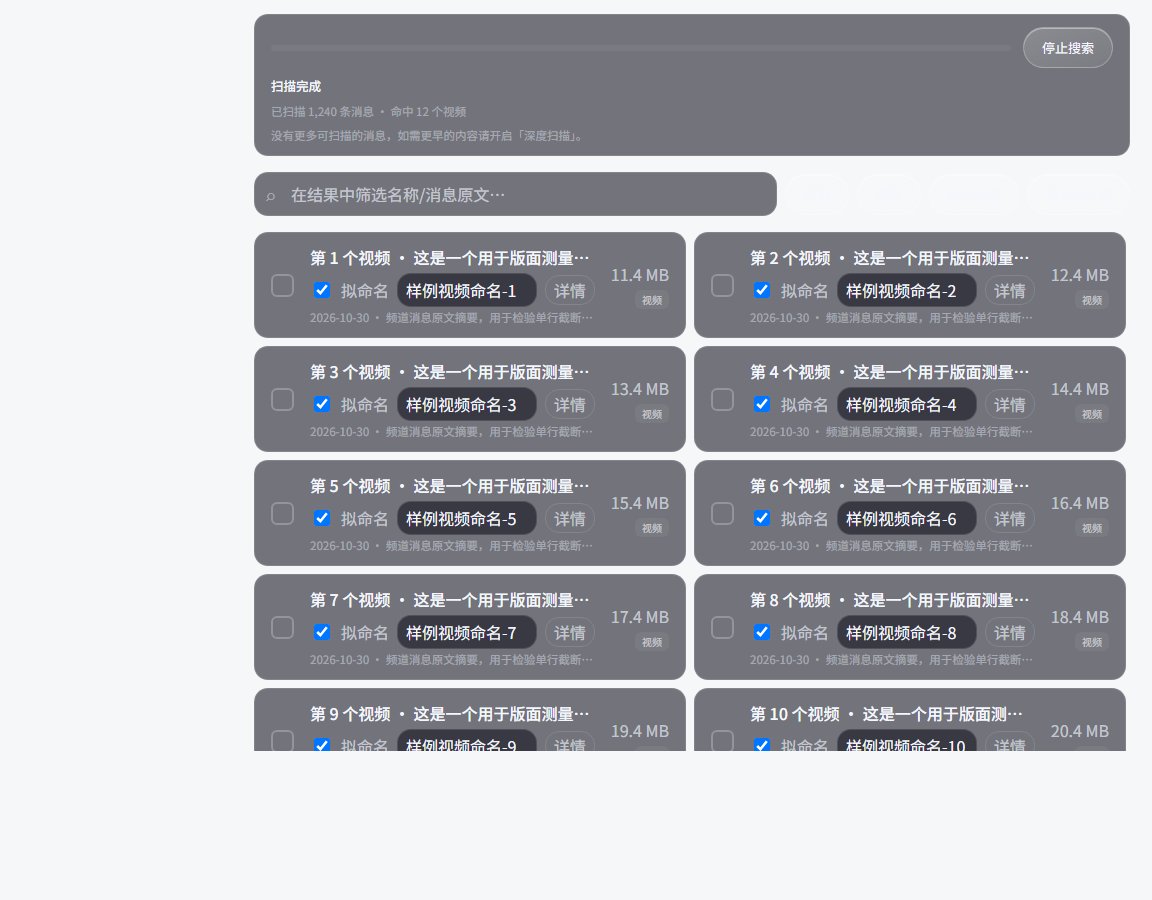
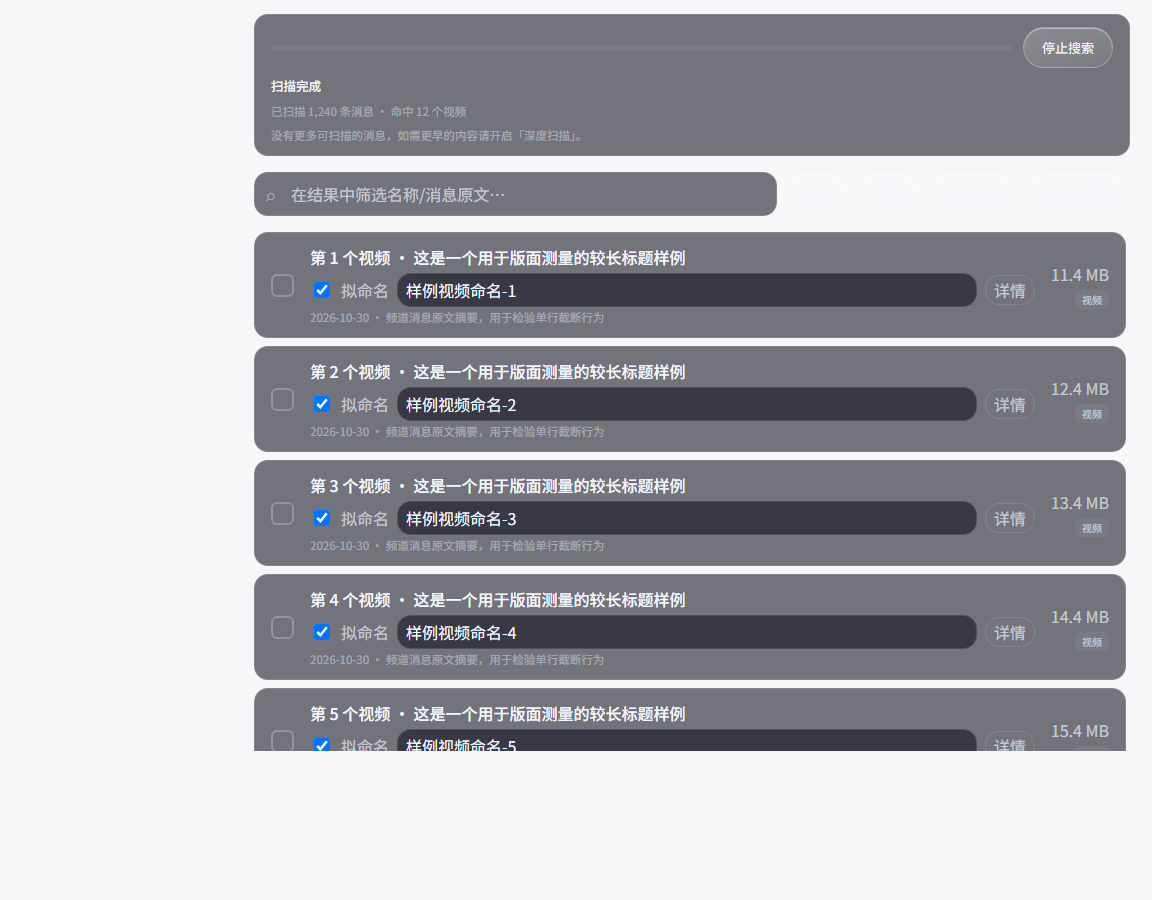
fix(web): keep results single-column full-width on wide viewports
取消 >=1024 的自适应多列网格：结果列表保持单列，行内信息列吃满可用宽度，名称/拟命名/摘要显示更多内容，右侧标签贴容器右缘，消除大屏右侧留白。同步更新 T61b 证据截图与说明。

Changed region(s): [[0.4375, 0.2489, 0.9062, 0.84]]

diff --git a/web/css/views/new.css b/web/css/views/new.css
@@ -452,22 +452,16 @@
   .nw-wiz { max-width: 760px; }  /* 旧壳 680px + 桌面舒展余量（任务书 §2.1 放宽为舒展布局授权） */
 }
 
-/* ≥1024（桌面/大屏）：结果页取消 760px 固定窄带，列数随可用宽度自动加密；
+/* ≥1024（桌面/大屏）：结果页取消 760px 固定窄带，保持单列、每行铺满可用宽度
+   （不切多列卡片），名称/拟命名/摘要随行宽显示更多内容，右侧标签贴容器右缘。
    用 :has 只放宽含结果列表的向导（步骤 1 条件卡保持 680—760 原宽）。
    <1024 全部断点与单列形态零改动；卡片内跑马/行距沿用 §7 原值。 */
 @media (min-width: 1024px) {
   .nw-wiz:has(.nw-list) { max-width: none; }
-  .nw-list {
-    display: grid;
-    /* 自适应列数：单卡下限 340px（保证标题与元信息不被截断），
-       1024 宽≈2 列、1450 宽≈3 列、1920 宽≈4 列，永不留下右侧空白 */
-    grid-template-columns: repeat(auto-fill, minmax(340px, 1fr));
-    align-content: start;        /* 行高按内容，不拉伸末尾空行 */
-    max-height: 52vh;            /* 44vh→52vh：900p 首屏坐满 4 行 */
-  }
+  .nw-list { max-height: 52vh; }   /* 单列内滚（44vh→52vh：900p 首屏多显示 1 行） */
   .nw-row {
     /* ≥768 的 4 列模板末列无对应子元素（现 DOM 为 勾选|信息|体积来源 三段），
-       多列卡片宽度收紧后改为 3 列，避免名称列被空列挤占 */
+       改 3 列让信息列吃满行宽 */
     grid-template-columns: auto minmax(0, 1fr) auto;
   }
   .nw-toolbar { flex-wrap: nowrap; }        /* 工具条随容器一行铺开 */

diff --git a/evidence/v2.4.1/T61b/density/layout-density.md b/evidence/v2.4.1/T61b/density/layout-density.md
@@ -1,22 +1,24 @@
-# 大屏结果区密度收紧（T61b 二次修复）
+# 大屏结果区铺满宽度（T61b 三次修复）
 
 ## 起因
 
-上一版只在 `≥1280px` 放开 760px 窄带。实际终端窗口的 CSS 宽度经常落在
-**1024–1279**（例如 1920 物理屏 125%–150% 缩放、或窗口非最大化），此时仍按
-单列 760px 渲染，右侧一大片空白 —— 与用户截图一致（见 `before-1152x900.png`：
-结果区 760px、右侧约 30% 空）。
+- 上一版（`29f3c4e`）只在 `≥1280px` 放开 760px 窄带，实际终端 CSS 宽度常落在
+  **1024–1279**（1920 物理屏 125%–150% 缩放、窗口非最大化），仍按 760px 渲染，
+  右侧一大片空白（`before-1152x900.png`）。
+- 第二版（`5efddea`）把下界降到 1024 并改成自适应多列网格，但用户裁决：
+  **每行不加列**，大屏要单列铺满宽度、尽可能显示内容、不留白。
 
 ## 改动（只动布局，不动 DOM / RPC / 移动端）
 
-`web/css/views/new.css`：
+`web/css/views/new.css`（≥1024 段）：
 
-- 媒体查询下界由 `1280px` 改为 `1024px`；
-- 结果列表由固定列数改为自适应：
-  `grid-template-columns: repeat(auto-fill, minmax(340px, 1fr))`；
-- 保留：`.nw-wiz:has(.nw-list) { max-width: none }`、`.nw-row` 三段式模板、
-  工具条 `nowrap` + 筛选框 `flex:1`（≤560px）+ 批量按钮右对齐、`max-height: 52vh`；
-- `<640` 与 `640–1023` 断点一行未改。
+- `.nw-wiz:has(.nw-list) { max-width: none }`：含结果列表的向导取消 760px 上限；
+- 结果列表保持默认单列（移除 `display:grid` 与 `auto-fill` 列模板），
+  仅保留 `max-height: 52vh` 内滚；
+- `.nw-row` 三段式模板 `auto minmax(0,1fr) auto`：信息列吃掉整行剩余宽度，
+  名称/拟命名/摘要随行宽显示更多内容，体积与来源标签贴容器右缘；
+- 工具条 `nowrap` + 筛选框 `flex:1`（≤560px）+ 批量按钮右对齐；
+- `<1024` 全部断点一行未改。
 
 `web/js/router.js`（1 处，防"改了看不出区别"）：
 
@@ -25,22 +27,20 @@
 
 ## 实测（与真实外壳同构：侧栏 232px + `.sh-scroll` padding 14px 22px）
 
-| 视口 | 结果区宽度 | 列数 | 单卡宽 | 首屏完整可见条目 |
-| --- | --- | --- | --- | --- |
-| 1152×900（改动前） | 760px（右侧空 30%） | 1 | 760 | 4 |
-| 1152×900（改动后） | 全宽（窗口右缘 −22px） | 2 | ~368 | 8 |
-| 1454×900（改动后） | 全宽 | 3 | ~383 | 12 |
-| 1920×1080（改动后） | 全宽 | 4 | ~402 | 12（样例仅 12 条，实际可按 4 行铺满 16） |
-| 390×844（改动前后） | — | 1 | — | PNG 哈希完全一致（零回退） |
+| 视口 | 结果区宽度 | 列数 | 首屏完整可见条目 |
+| --- | --- | --- | --- |
+| 1152×900（改动前） | 760px（右侧空约 30%） | 1（760px 窄带） | 4 |
+| 1152×900（改动后） | 全宽（窗口右缘 −22px） | 1 | 4 |
+| 1454×900（改动后） | 全宽 | 1 | 5 |
+| 1920×1080（改动后） | 全宽 | 1 | 6（样例 12 条，实际可铺满视口） |
+| 390×844（改动前后） | — | 1 | PNG 哈希完全一致（零回退） |
 
[1 lines of base64/hex data omitted]
 （改动前 = 改动后）。
 
-单卡宽度在任何视口下都 ≤640px（auto-fill + 下限 340px 自动增列，不会出现超宽卡）。
-
 ## 截图
 
-- `before-1152x900.png` / `after-1152x900.png`：同一窗口宽度前后对照
+- `before-1152x900.png` / `after-1152x900.png`：同宽前后对照（窄带 → 单列全宽）
 - `after-1454x900.png`、`after-1920x1080.png`、`after-390x844.png`
 
 ## 门规
